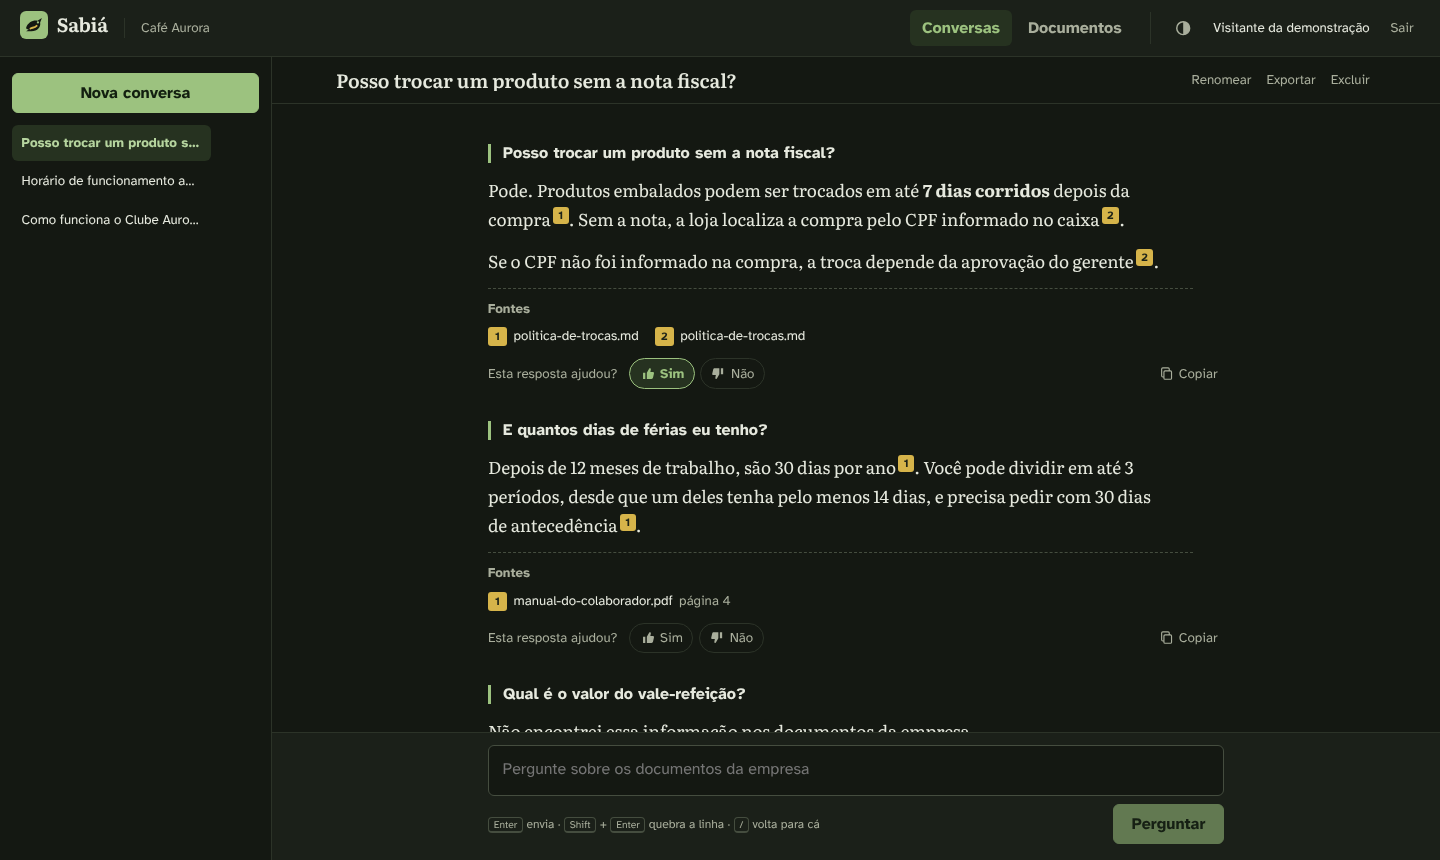
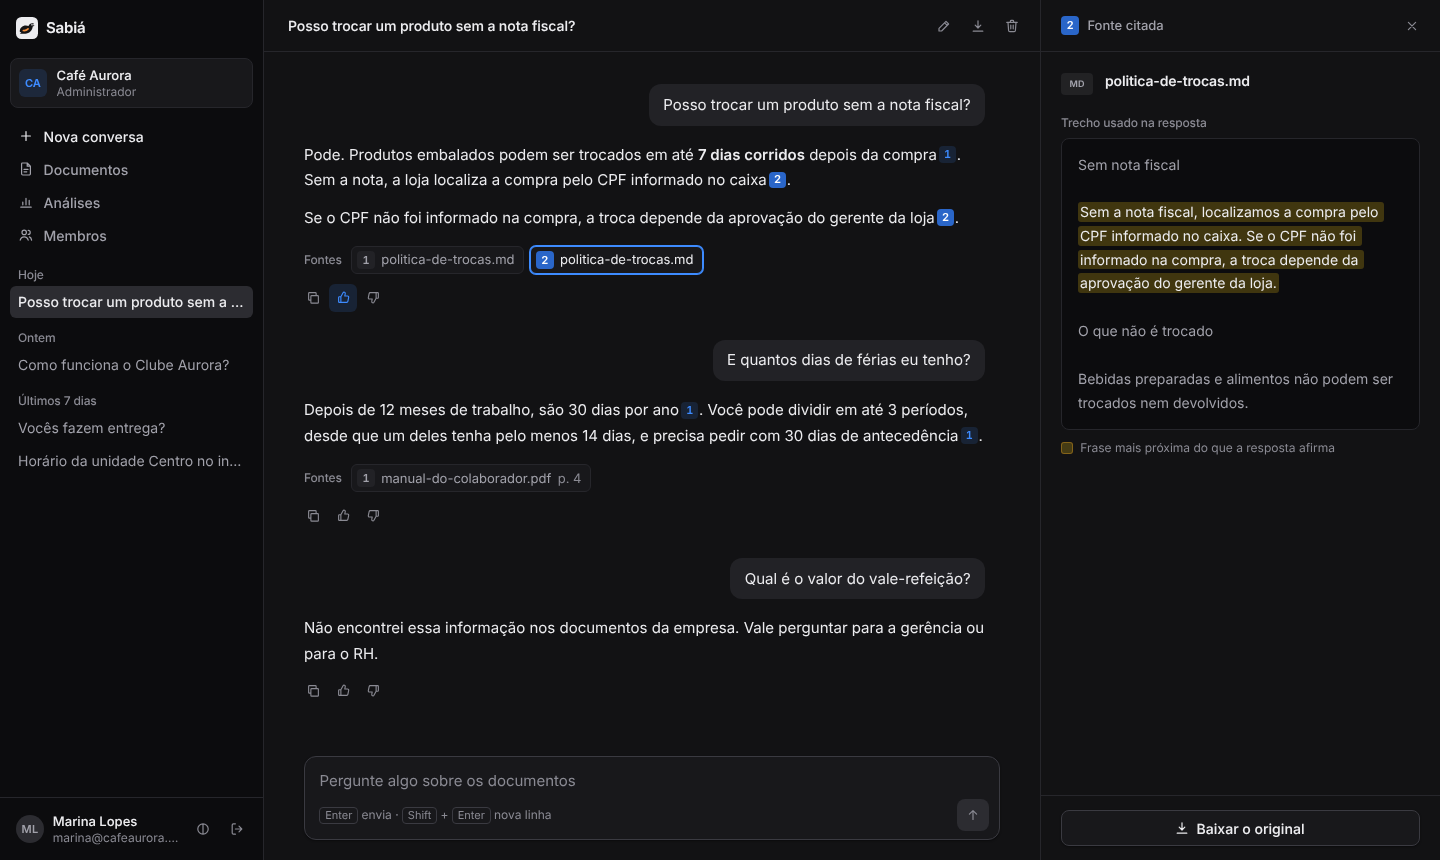
docs: capturas da nova interface no README

diff --git a/README.md b/README.md
@@ -11,7 +11,7 @@ Assistente de base de conhecimento para empresas. Você envia os documentos da e
 
 ## O que ele faz
 
-- **Responde com a fonte.** Cada informação vem com um marcador clicável que abre o trecho exato, o nome do documento e a página (em PDFs).
+- **Responde com a fonte.** Cada informação vem com um marcador clicável que abre o trecho usado, com a frase correspondente destacada, o nome do documento e a página (em PDFs).
 - **Não inventa.** Sem trecho relevante, a resposta é "não encontrei", sem nem chamar o modelo de IA.
 - **Isola as empresas.** Várias empresas usam o mesmo sistema, e uma nunca enxerga os documentos da outra.
 - **Resiste a injeção de prompt.** Instruções escondidas dentro de um documento são tratadas como texto, não como ordens.
@@ -27,7 +27,7 @@ Assistente de base de conhecimento para empresas. Você envia os documentos da e
 
 | Entrada | Tema escuro |
 | --- | --- |
-| ![Tela de entrada com exemplo de resposta citada](docs/imagens/entrada.png) | ![Conversa no tema escuro](docs/imagens/conversa-escura.png) |
+| ![Tela de entrada com as empresas da demonstração](docs/imagens/entrada.png) | ![Conversa no tema escuro](docs/imagens/conversa-escura.png) |
 
 ## Como funciona
 
@@ -66,6 +66,7 @@ flowchart LR
 - **Custo sob controle.** Perguntas sem trecho relevante não chamam o modelo, há um limite de perguntas por hora por usuário, e parar uma resposta cancela a geração no servidor (a parte já escrita fica salva).
 - **Demonstração pública sem conta compartilhada.** O botão "Entrar como..." cria um usuário temporário, sem senha, só daquele visitante. Assim ninguém vê as conversas de outro visitante nem troca a senha de todo mundo. As sugestões da tela inicial são fixas, para ninguém ver o que outro digitou, e o usuário é apagado (com as conversas) por uma tarefa agendada depois que o token vence. Há um teto de perguntas por hora somando todos os visitantes e um limite de contas novas por IP.
 - **Login protegido.** Depois de 5 senhas erradas para o mesmo e-mail (ou 30 do mesmo IP) em 15 minutos, o login responde 429 até a janela passar.
+- **Frase de origem destacada.** No painel da fonte, a frase do trecho mais parecida com o que a resposta afirmou fica marcada. A comparação roda no navegador, por palavras em comum (sem acento e sem palavras vazias), sem outra chamada ao modelo.
 - **Acessível.** Contraste conferido nos temas claro e escuro, navegação por teclado (atalhos `/` e `Esc`, foco que volta para onde estava), anúncios curtos para leitores de tela em vez de ler cada palavra que chega, e gráfico com versão em tabela.
 - **Qualidade medida.** A pasta [`avaliacao`](avaliacao) tem um gabarito de 24 perguntas e um script que mede acerto, citação correta, recusa e resistência a injeção.
 
